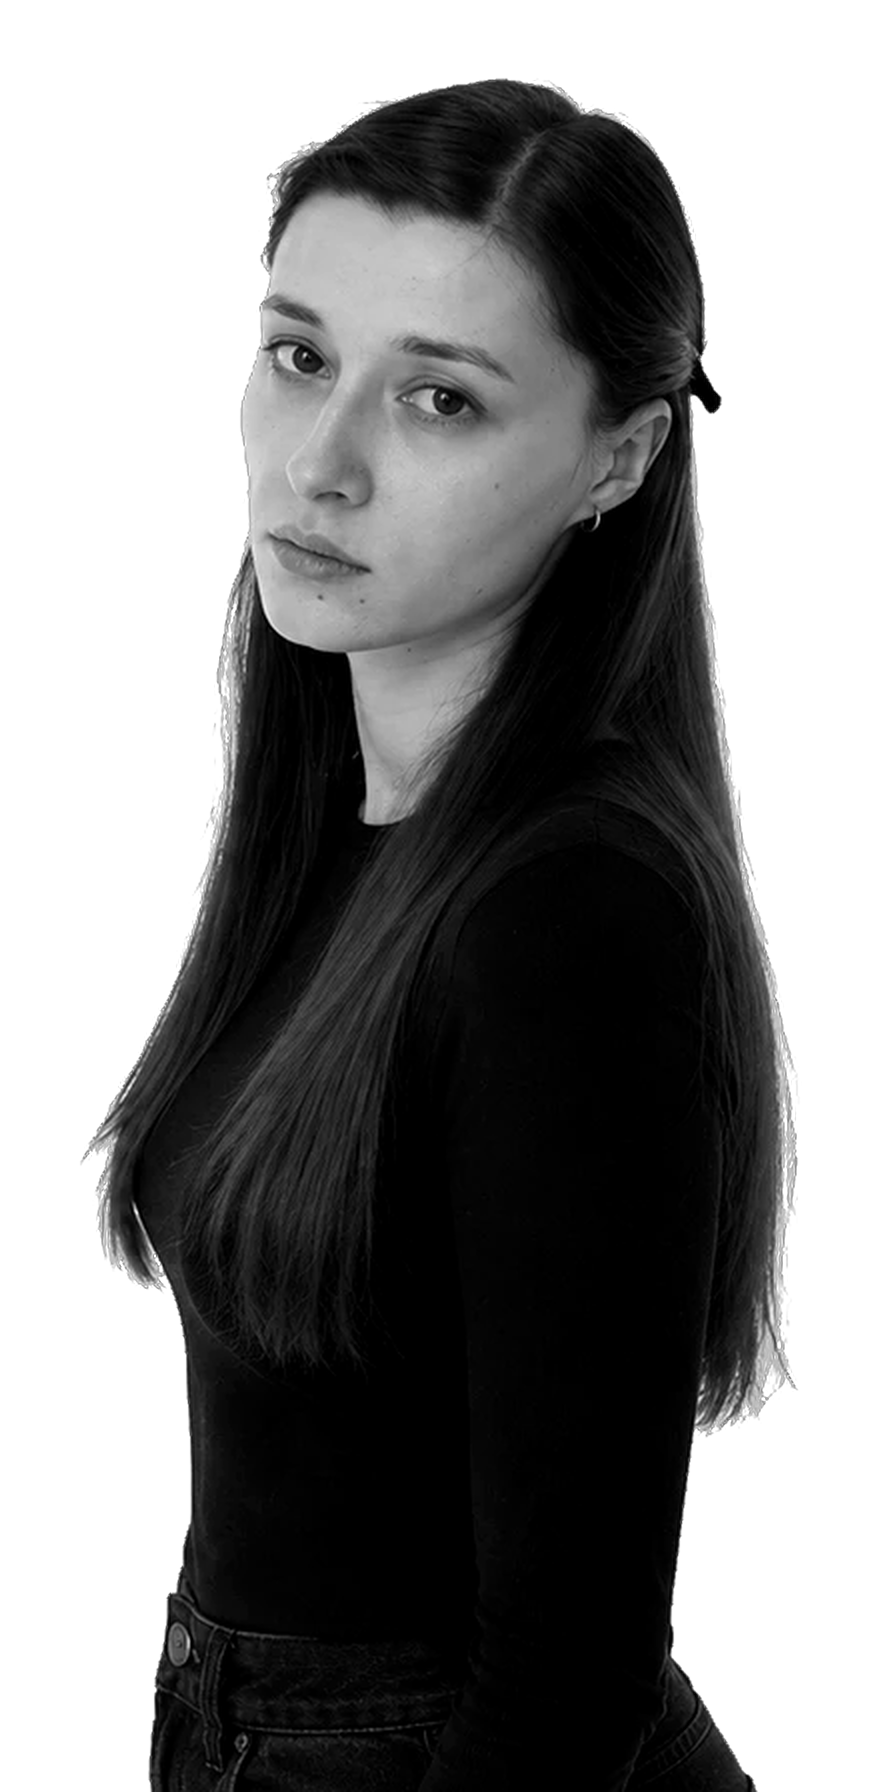
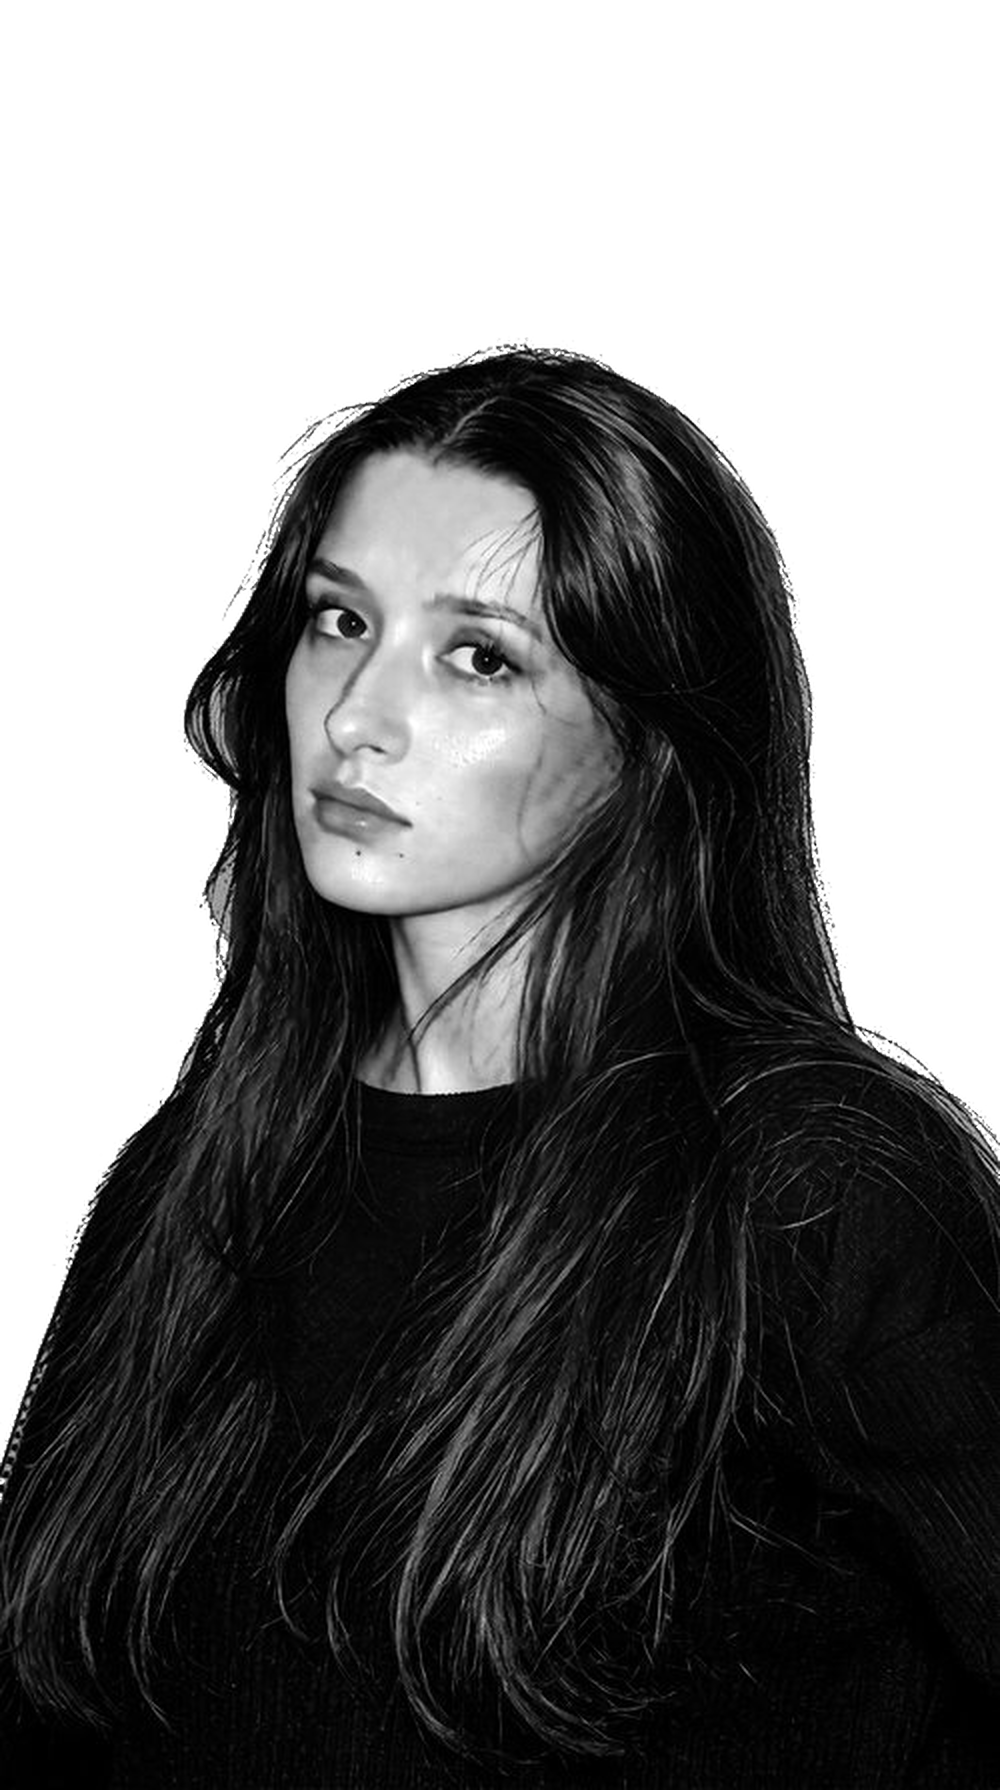
About: use new B/W portrait with cutout, larger framing, adjust HUD placement

diff --git a/assets/style.css b/assets/style.css
@@ -113,24 +113,25 @@ dialog[open]{display:grid;grid-template-rows:1fr auto;justify-items:center;align
 .stage .disc-bg{position:absolute;left:12%;top:18%;width:76%;aspect-ratio:1;border-radius:50%;background:var(--grad);opacity:.9;filter:saturate(1.1);box-shadow:0 0 120px -20px #8b5cffaa}
 .stage .ring{position:absolute;border:1px solid #ffffff30;border-radius:50%;left:50%;top:42%;translate:-50% -50%}
 .stage .ring.r1{width:96%;aspect-ratio:1}.stage .ring.r2{width:118%;aspect-ratio:1;border-color:#ffffff18}
-.stage .me{position:absolute;left:16.3%;bottom:0;width:67.4%;height:auto;z-index:2;filter:contrast(1.05);-webkit-mask-image:linear-gradient(#000 84%,transparent 99%);mask-image:linear-gradient(#000 84%,transparent 99%)}
+.stage .me{position:absolute;left:8%;bottom:0;width:84%;height:auto;z-index:2;filter:contrast(1.04);-webkit-mask-image:linear-gradient(#000 82%,transparent 99%),linear-gradient(90deg,transparent 0,#000 9%,#000 91%,transparent 100%);-webkit-mask-composite:source-in;mask-image:linear-gradient(#000 82%,transparent 99%),linear-gradient(90deg,transparent 0,#000 9%,#000 91%,transparent 100%);mask-composite:intersect}
 .stage .vert{position:absolute;left:-1%;top:4%;height:92%;writing-mode:vertical-rl;transform:rotate(180deg);font-weight:900;font-size:clamp(14px,3.1vw,22px);letter-spacing:.12em;white-space:nowrap;color:transparent;-webkit-text-stroke:1px #ffffff55;z-index:1}
 .hud-lines{position:absolute;inset:0;width:100%;height:100%;z-index:3;pointer-events:none;overflow:visible}
 .hud-lines polyline{fill:none;stroke:#fff;stroke-width:1.2;vector-effect:non-scaling-stroke;stroke-dasharray:200;stroke-dashoffset:200;transition:stroke-dashoffset 1.4s ease .3s}
 .in .hud-lines polyline{stroke-dashoffset:0}
-.scan{position:absolute;z-index:3;left:31%;top:10%;width:30%;height:23%;border:1px solid #fff9}
+.scan{position:absolute;z-index:3;left:33%;top:21%;width:26%;height:19%;border:1px solid #fff9}
 .scan::before,.scan::after{content:"";position:absolute;inset:-1px;border:2px solid #fff;clip-path:polygon(0 0,18% 0,18% 100%,0 100%,0 0,100% 0,100% 18%,82% 18%,82% 0,0 0)}
 .scan i{position:absolute;left:0;right:0;top:0;height:2px;background:linear-gradient(90deg,transparent,#fff,transparent);animation:sweep 3.2s ease-in-out infinite}
 .scan b{position:absolute;left:-1px;top:-1.7em;font-size:calc(var(--u)*.8);letter-spacing:.2em;background:#fff;color:#000;padding:1px 6px;font-weight:700}
 @keyframes sweep{0%{top:0;opacity:0}15%{opacity:1}85%{opacity:1}100%{top:100%;opacity:0}}
 .tag{position:absolute;z-index:4;background:#07070acc;backdrop-filter:blur(6px);border:1px solid #ffffff55;border-left:3px solid var(--orange);padding:.5em .8em;font-size:calc(var(--u)*1.15);font-weight:700;line-height:1.2;white-space:nowrap}
 .tag small{display:block;font-size:.62em;letter-spacing:.18em;text-transform:uppercase;color:var(--muted);font-weight:600;margin-bottom:.2em}
-.tag.t1{left:73%;top:5.4%;border-left-color:var(--violet)}
-.tag.t2{left:72%;top:45%}
-.tag.t3{left:7%;top:76%;border-left-color:var(--violet)}
+.tag.t1{left:73%;top:15%;border-left-color:var(--violet)}
+.tag.t2{left:73%;top:54%}
+.tag.t3{left:6%;top:78%;border-left-color:var(--violet)}
 .corner{position:absolute;width:6%;aspect-ratio:1;border:2px solid #ffffffaa;z-index:3}
 .corner.tl{left:0;top:0;border-right:0;border-bottom:0}.corner.tr{right:0;top:0;border-left:0;border-bottom:0}
 .corner.bl{left:0;bottom:0;border-right:0;border-top:0}.corner.br{right:0;bottom:0;border-left:0;border-top:0}
 .mini{position:absolute;z-index:3;font-size:calc(var(--u)*.8);letter-spacing:.2em;color:#ffffffaa;font-weight:600}
 .mini.a{left:9%;bottom:1.5%}.mini.b{right:9%;bottom:1.5%}
 @media(max-width:860px){.about{grid-template-columns:1fr}.stage{max-width:440px}}
+@media(max-width:560px){.tag.t1{left:60%}.tag.t2{left:62%}.tag.t3{left:4%}}

diff --git a/index.html b/index.html
@@ -54,11 +54,11 @@
         <div class="stage">
           <div class="disc-bg"></div><div class="ring r1"></div><div class="ring r2"></div>
           <p class="vert" aria-hidden="true">MOTION DESIGNER — AI CREATIVE — MOTION DESIGNER</p>
-          <img class="me" src="assets/me.png" alt="Portrait of the motion designer behind RAIA.VISION" width="896" height="1792" loading="lazy" decoding="async">
+          <img class="me" src="assets/me.png" alt="Portrait of the motion designer behind RAIA.VISION" width="1000" height="1790" loading="lazy" decoding="async">
           <svg class="hud-lines" viewBox="0 0 100 100" preserveAspectRatio="none" aria-hidden="true">
-            <polyline points="62,16 70,16 70,9 76,9"/>
-            <polyline points="52,52 66,52 66,50 72,50"/>
-            <polyline points="40,76 34,76 34,80 30,80"/>
+            <polyline points="59,27 66,27 66,19.5 73,19.5"/>
+            <polyline points="58,64 66,64 66,58 73,58"/>
+            <polyline points="40,72 34,72 34,82 30,82"/>
           </svg>
           <div class="scan" aria-hidden="true"><i></i><b>FOCUS</b></div>
           <div class="tag t1"><small>Role</small>Motion designer</div>
